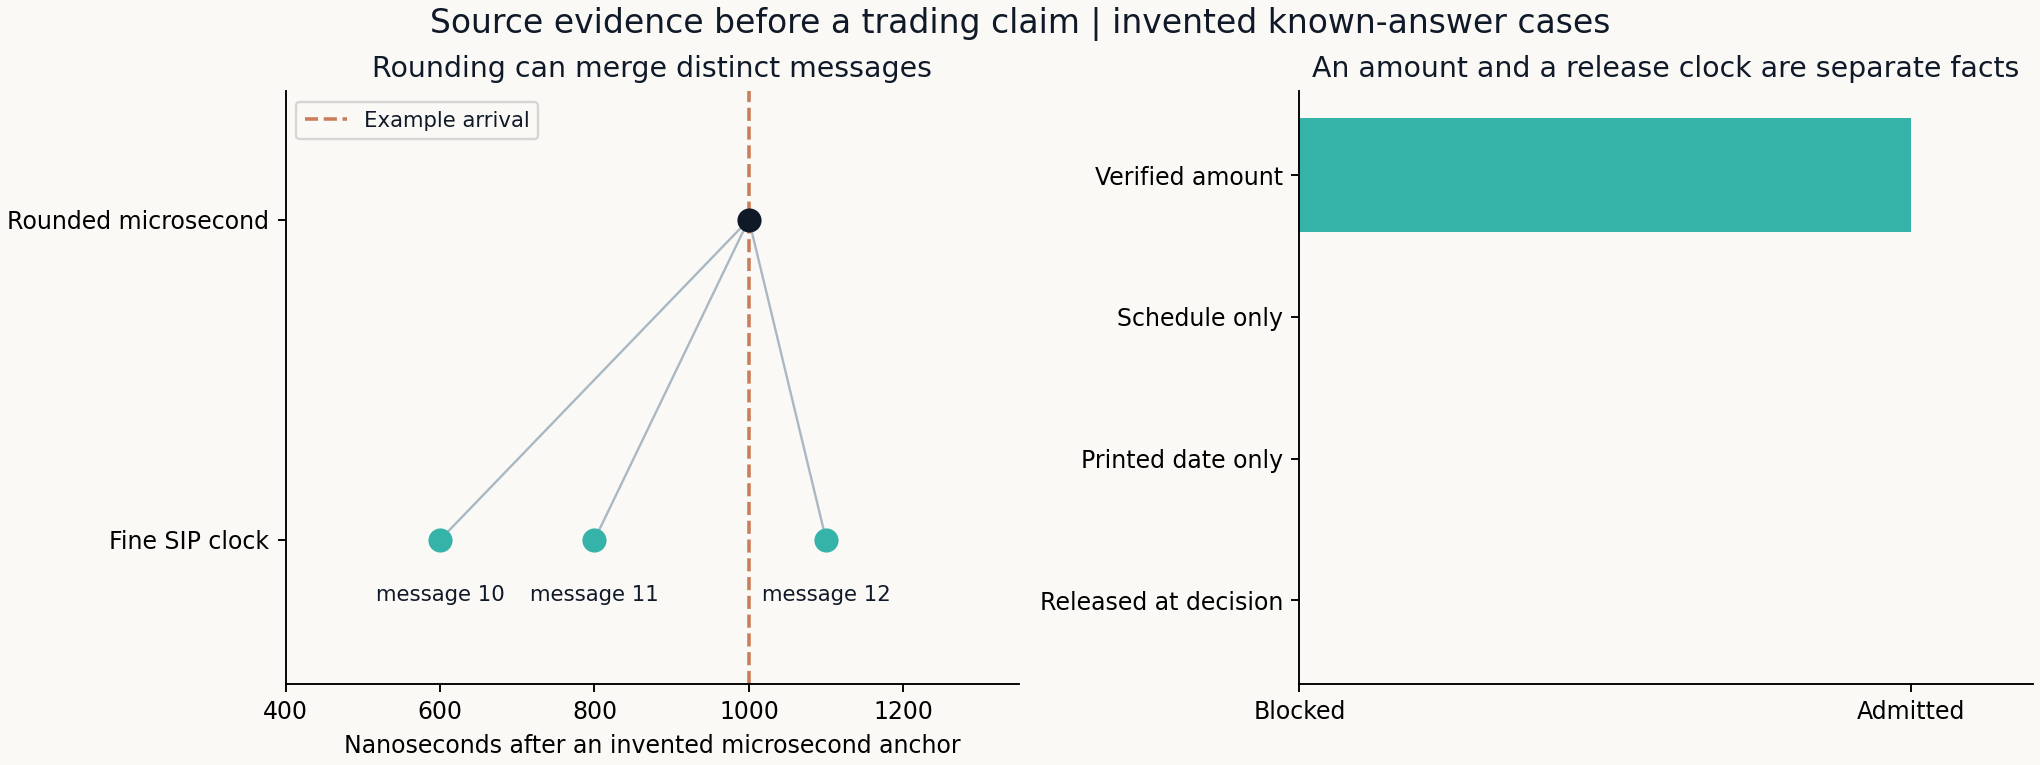
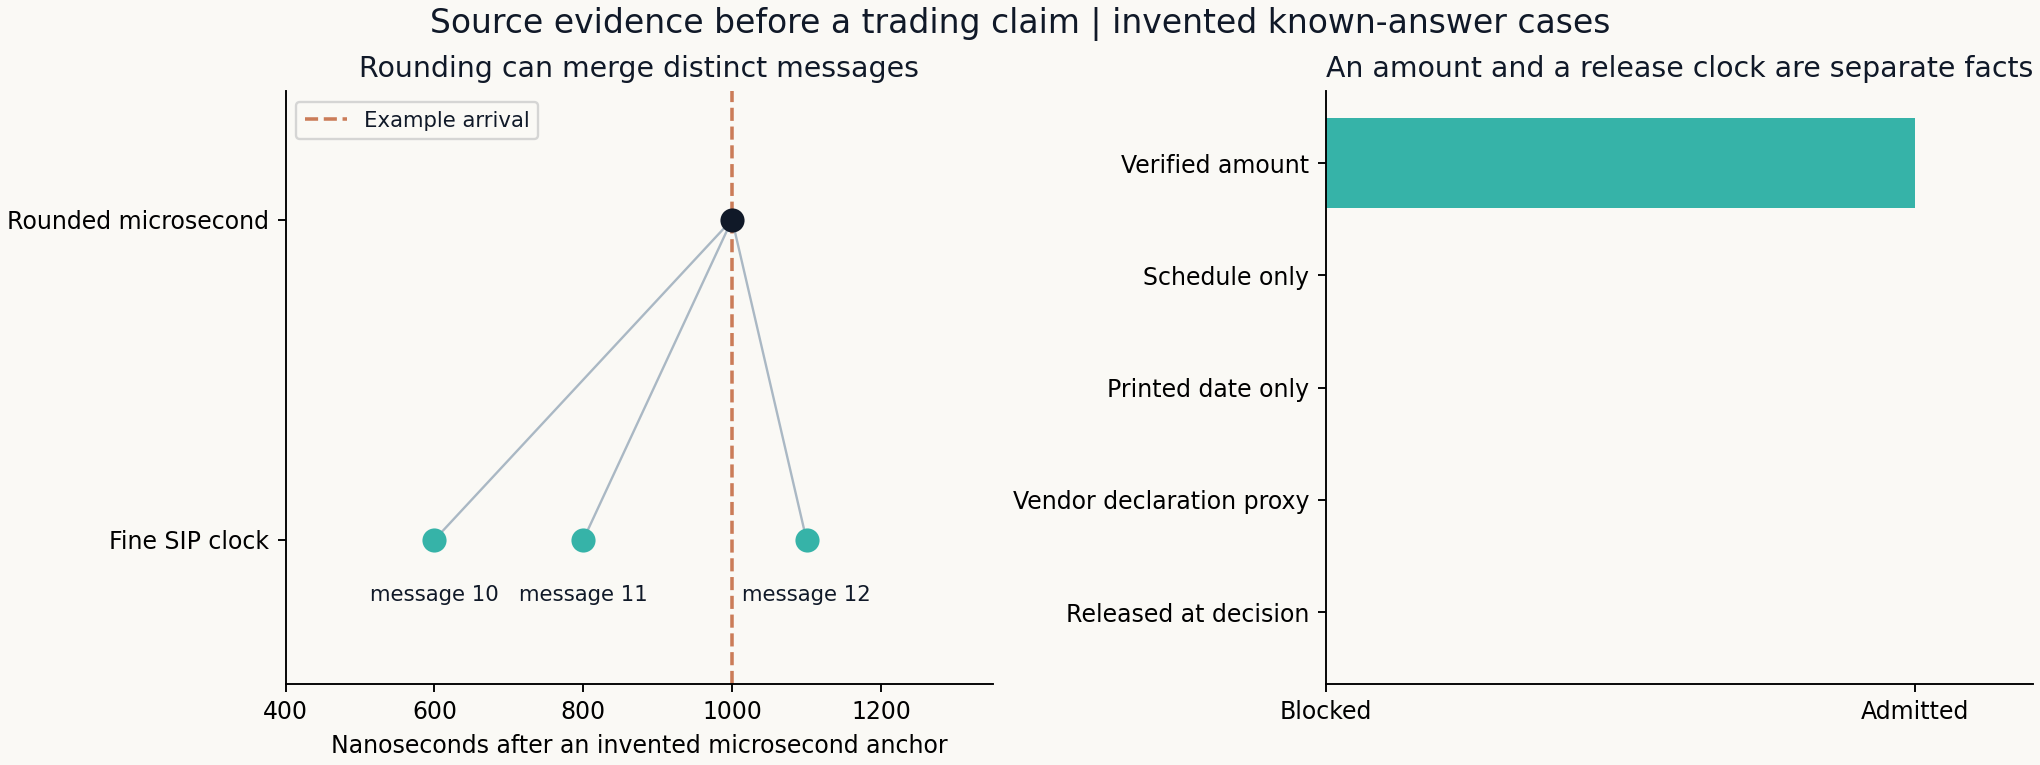
Separate declaration-date sensitivities from verified publication evidence

diff --git a/examples/explain_intraday_evidence.py b/examples/explain_intraday_evidence.py
@@ -31,6 +31,7 @@ def main():
         ('Verified amount', 'gross_cash_amount', 'exchange_release_timestamp', '2020-01-02T08:00:00+08:00'),
         ('Schedule only', 'distribution_schedule', 'exchange_release_timestamp', '2020-01-01T00:00:00Z'),
         ('Printed date only', 'gross_cash_amount', 'document_date_only', '2020-01-01T23:59:59+08:00'),
+        ('Vendor declaration proxy', 'gross_cash_amount', 'vendor_declaration_date_proxy', '2020-01-01T23:59:59-05:00'),
         ('Released at decision', 'gross_cash_amount', 'exchange_release_timestamp', '2020-01-02T14:30:00Z')]:
         rows.append({'evidence_id': key, 'kind': kind, 'clock_basis': basis, 'published_at': published,
                      'decision_at': '2020-01-02T14:30:00Z', 'identity_verified': True,
@@ -96,9 +97,14 @@ cannot justify picking the largest displayed quantity. Half-quantum ties,
 missing tuples and conflicting sequence scopes remain quarantined.
 
 The publication examples distinguish an actual amount release, a calendar,
-a printed document date and a release at the decision. Only the verified earlier
+a printed document date, a vendor declaration-date proxy and a release at the decision. Only the verified earlier
 amount passes. These inputs are analyst attestations exercised as a known-answer
 test; the function does not authenticate a document or prove feed availability.
+
+A vendor's prior declaration date can support a separately labeled current-vintage
+sensitivity under the original protocol when identity and amounts match exactly.
+It is not a verified primary release clock. The added invented proxy case remains
+blocked by the strict publication check even though its date precedes the decision.
 
 [Methods](../../docs/INTRADAY_EVIDENCE.md) · [Tests](../../tests/test_intraday_evidence.py)
 ''', encoding='utf-8')
@@ -127,6 +133,7 @@ strict-before test. These examples contain no licensed market observations.
 ''')
     implementation = Path(evidence_module.__file__)
     (args.output/'run.json').write_text(json.dumps({'data': 'invented known-answer fixtures',
+        'example_sha256': hashlib.sha256(Path(__file__).read_bytes()).hexdigest(),
         'implementation_sha256': hashlib.sha256(implementation.read_bytes()).hexdigest(),
         'cluster_status': audit.status.to_list(), 'admitted_publication_cases': int(publication.strict_usable.sum()),
         'source_eligible_cases': len(chosen), 'dated_lot_matches': len(lots),

diff --git a/docs/INTRADAY_EVIDENCE.md b/docs/INTRADAY_EVIDENCE.md
@@ -110,6 +110,35 @@ may be evaluated under that same convention in a separately recorded overlay;
 it must not be relabeled as a verified primary publication timestamp. Missing
 or same-day dates remain unavailable before the open without additional evidence.
 
+### A declaration date is a different kind of evidence
+
+Keep two assessments separate: a primary amount-release clock and a
+current-vintage declaration-date sensitivity. The original prior-day proxy may
+use an alternate vendor record only after a unique date-effective security link,
+the same US ex-date, exact gross cash amount, currency, distribution components
+and adjustment factors have been verified. Record the original field and the
+alternate source separately. A proxy does not become a primary release timestamp
+because it precedes the ex-date, and it does not prove archived point-in-time data.
+
+Matching must preserve the frozen precision rule. In an **invented** example,
+USD 0.12345 and a second vendor's four-decimal USD 0.1234 are not an exact amount
+match. Do not round the first value, select a tolerance after seeing matches or
+copy a date from the nearest event. Record the precision difference and seek
+additional evidence. Missing declaration dates remain missing even when the
+cash amount itself agrees. The [invented publication example](../reports/intraday-evidence-fixture/REPORT.md)
+now includes an earlier vendor-date proxy that correctly fails the strict gate.
+
+The [earlier trust prospectus](https://www.sec.gov/Archives/edgar/data/1067839/000110465915004817/a15-1379_1485bpos.htm)
+describes a historical distribution calendar. It does not publish a later
+quarter's cash amount or its release time. The issuer's [ETF tax center](https://www.invesco.com/us/en/accounts/tax-center/etf-tax-center.html)
+distinguishes annually posted tax information from an estimated dividend calendar;
+neither substitutes for the amount announcement's publication evidence.
+
+An unavailable history page, unsuccessful archive query or missing vendor field
+is an **evidence gap**, not proof that no announcement existed. Keep the query,
+response and retrieval date. A newly found date proxy that occurs after an
+account's original stopping point cannot justify restarting that account.
+
 ## What changes, and what stays fixed
 
 Source adjudication changes a documented observation only when its evidence

diff --git a/README.md b/README.md
@@ -74,7 +74,7 @@ and original joint-shock failures remain separate and reproducible.
 
 ## Intraday execution: a separate research track
 
-[Source evidence in practice](docs/INTRADAY_EVIDENCE.md) examines nanosecond remainders, dated self-NBBO source selection, exact lot identities and the difference between a distribution schedule, an amount and a release timestamp. Official exchange listings add a separate publication clock to selected issuer amounts. The [invented worked report](reports/intraday-evidence-fixture/REPORT.md) shows how an apparently eligible rounded quote can precede the order. Source corrections retain the frozen trading rules and original failed accounts; the complete ten-year historical evaluation remains gated.
+[Source evidence in practice](docs/INTRADAY_EVIDENCE.md) examines nanosecond remainders, dated self-NBBO source selection, exact lot identities and the difference between a distribution schedule, an amount and a release timestamp. Official exchange listings add a separate publication clock to selected issuer amounts; alternate declaration dates remain a separately labeled sensitivity. The [invented worked report](reports/intraday-evidence-fixture/REPORT.md) shows how an apparently eligible rounded quote can precede the order. Source corrections retain the frozen trading rules and original failed accounts; the complete ten-year historical evaluation remains gated.
 
 The [intraday study](docs/INTRADAY_RESEARCH.md) reconstructs SPY breakout logic with quote-after-signal execution, displayed capacity, funding and retained failed exits. [Six fixed offline runs](reports/intraday-synthetic/REPORT.md) use invented inputs and preserve losses. The intended licensed SPY/QQQ history has separate coverage, auction, action and cash-reference gates; no long-history real performance claim is made.
 

diff --git a/docs/INTRADAY_VERIFICATION.md b/docs/INTRADAY_VERIFICATION.md
@@ -29,3 +29,7 @@ The source adapter's synthetic 2-for-1 case validates arithmetic and input gates
 A fresh Python 3.12 noneditable installation passed **200 tests**, dependency checks, the evidence report, original intraday/clock examples and default real-data allocation demonstration. Fourteen additional cases exercise vintage-specific self-NBBO indicators, duplicate capacity, conflicting sequence payloads, exact dated lot identities, future-source perturbation and a minute-resolution publication boundary. The engine bytes and financial rules remain unchanged.
 
 The new [source-selection figure](../reports/intraday-evidence-fixture/source_selection.png) uses invented messages. Linked official exchange listings strengthen selected issuer publication facts; they do not repair every earlier event or authorize restarting stopped accounts. Private frozen replays and independent ledgers remain separate from public demonstration outputs.
+
+## Declaration-date sensitivity — 30 October 2026 New York
+
+The installed Python 3.12 library is byte-identical to the current v0.10.3 source across 31 Python files; the 200-test implementation and financial rules are unchanged. The updated offline example records its own source fingerprint and includes a prior vendor declaration date that fails the strict primary-publication check. It ran against the noneditable installation. A separately labeled private sensitivity retains exact source matching, the original account stops and independent ledger reconstruction. It does not turn a declaration-date field into a historical release timestamp.

diff --git a/docs/INTRADAY_DATA_STATUS.md b/docs/INTRADAY_DATA_STATUS.md
@@ -22,3 +22,5 @@ No source failure is removed merely to obtain a complete backtest. Missing corpo
 [Evidence adjudication](INTRADAY_EVIDENCE.md) preserves source corrections and the original failure baseline separately. Software support for a precise publication clock does not imply that every historical event has that evidence. An alternate current-vintage declaration date, when available and matched, retains the original dated-proxy label.
 
 The [source-audit methods](INTRADAY_SOURCE_AUDIT.md), [invented clock/action examples](../reports/intraday-data-fixture/REPORT.md), executable [input contract](INTRADAY_RESEARCH.md#data-interface), [verification record](INTRADAY_VERIFICATION.md) and tests can be reviewed now. Same-time quote conflicts, possible delayed opening evidence and failed/partial closing orders remain distinct diagnostics. Current-vintage numerical reconciliation is not proof of historical publication timing. A full historical report is released only after the relevant gates pass; a smaller prefix is never relabeled as the target long-history study.
+
+An alternate current-vintage declaration date is assessed separately from primary publication evidence. Exact identity/amount matching stays frozen; missing dates and precision mismatches remain unresolved. A later proxy cannot unlock the first earlier source blocker or restart a stopped account. See [the two evidence lanes](INTRADAY_EVIDENCE.md#a-declaration-date-is-a-different-kind-of-evidence).

diff --git a/reports/intraday-evidence-fixture/REPORT.md b/reports/intraday-evidence-fixture/REPORT.md
@@ -12,9 +12,14 @@ cannot justify picking the largest displayed quantity. Half-quantum ties,
 missing tuples and conflicting sequence scopes remain quarantined.
 
 The publication examples distinguish an actual amount release, a calendar,
-a printed document date and a release at the decision. Only the verified earlier
+a printed document date, a vendor declaration-date proxy and a release at the decision. Only the verified earlier
 amount passes. These inputs are analyst attestations exercised as a known-answer
 test; the function does not authenticate a document or prove feed availability.
+
+A vendor's prior declaration date can support a separately labeled current-vintage
+sensitivity under the original protocol when identity and amounts match exactly.
+It is not a verified primary release clock. The added invented proxy case remains
+blocked by the strict publication check even though its date precedes the decision.
 
 [Methods](../../docs/INTRADAY_EVIDENCE.md) · [Tests](../../tests/test_intraday_evidence.py)
 
